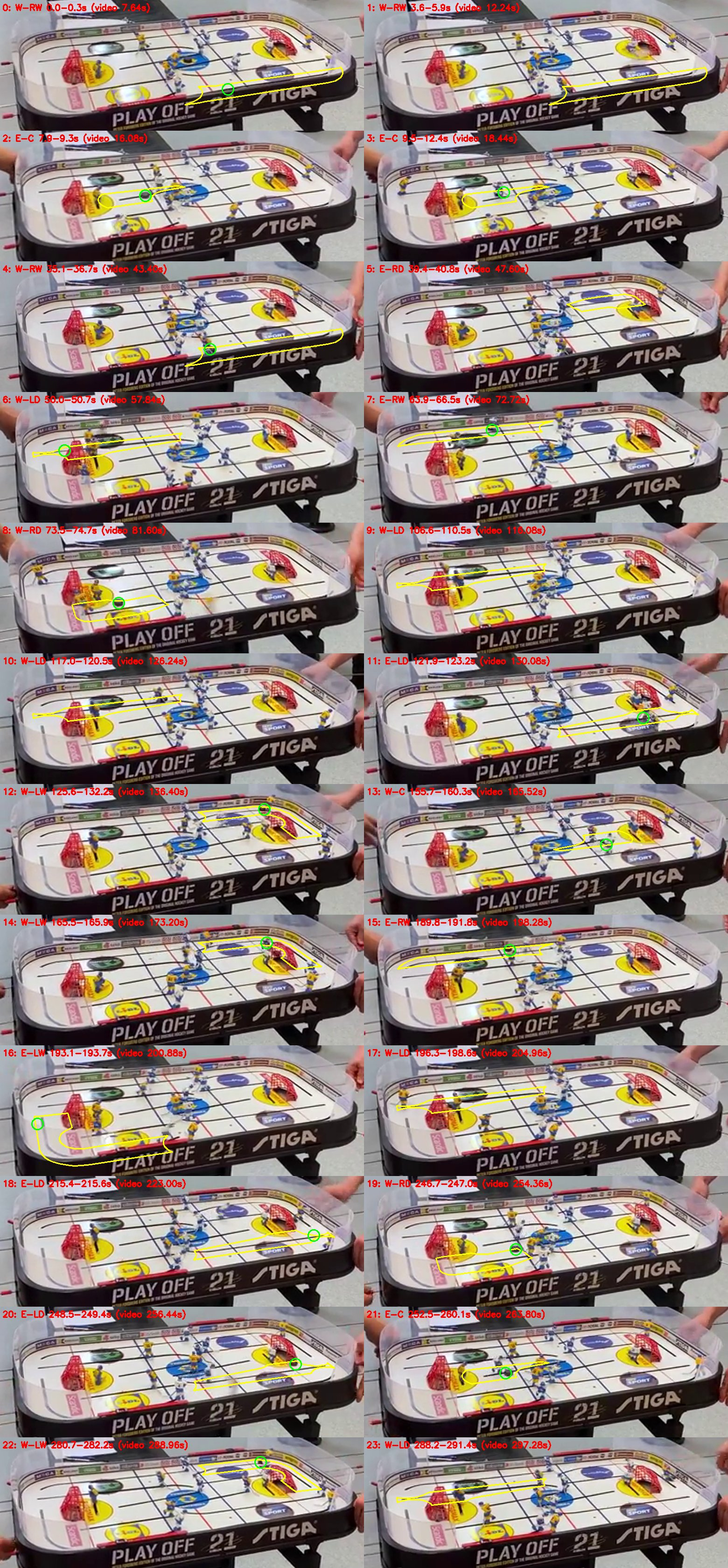
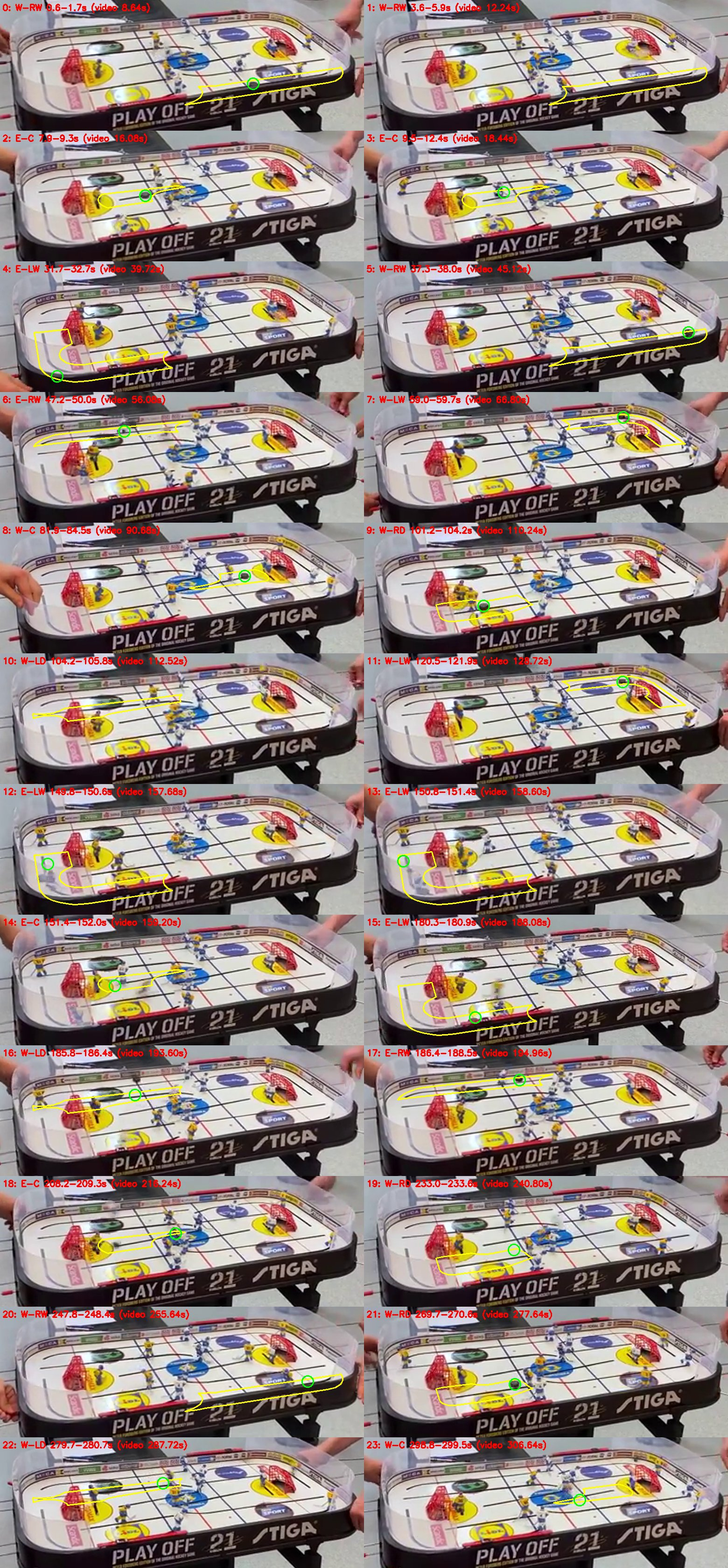
Match tracking: user settings, minimum episode 0.5 s and maximum gap 7 s
Recount and re-review with the user's settings; sensitivity table keeps
the previous defaults for comparison.

Claude-Session: https://claude.ai/code/session_01ELokErAn2XD5oMDfq7JXns

Changed region(s): [[0.0, 0.1562, 1.0, 1.0], [0.0, 0.0, 0.5231, 0.0938], [0.0, 0.4375, 0.0308, 0.5]]

diff --git a/scripts/game-possession.py b/scripts/game-possession.py
@@ -14,10 +14,11 @@ Definition (user answers A10-A15, docs/game-mechanics.md section 6):
   not counted (A14) and do not block (simplest reading of "don't count the goalie").
 - Per skater: the time the puck is on it, and the number of times it gets the puck (entries into its exclusive
   area).
-- Frames where the puck is not seen: a gap of up to MAX_GAP_S keeps the owner when the puck is on the same skater
+- Frames where the puck is not seen: a gap of up to MAX_GAP_S (7 s, user) keeps the owner when the puck is on the same skater
   before and after; otherwise the first half goes to the owner before and the second half to the owner after. A gap
-  longer than MAX_GAP_S is on nobody (A15; whether the whole gap or only the part after 10 s is open, Q16).
-- An episode shorter than MIN_EPISODE_S on a skater is counted as nobody (detection jitter at area edges).
+  longer than MAX_GAP_S is on nobody (A15 said 10 s for a stoppage; the user then chose 7 s for the tracking gaps;
+  whether the whole gap or only the part after the limit is open, Q16).
+- An episode shorter than MIN_EPISODE_S (0.5 s, user) on a skater is counted as nobody (detection jitter at area edges).
 """
 import json
 
@@ -30,7 +31,7 @@ from shapely.prepared import prep
 
 from game_common import FPS, GAME, MATCH_START_S, REPO, geometry, load, match_frames, proj, save, world_to_crop
 
-MAX_GAP_S, MIN_EPISODE_S = 10.0, 0.2
+MAX_GAP_S, MIN_EPISODE_S = 7.0, 0.5  # user, 2026-10-07
 G = geometry()
 R_PUCK = G["puck"]["diameter"]["value"] / 2
 TEAM = {"W": "Fylling (left)", "E": "Moe (right)"}
@@ -156,10 +157,12 @@ def classify_goalie_blocks(x, y):
 
 SENS = {
     "baseline": summary(own),
-    "long gap: nobody only after 10 s (Q16)": summary(assign(POS, gap_rule="after")[0]),
+    "long gap: nobody only after the limit (Q16)": summary(assign(POS, gap_rule="after")[0]),
     "goalies block (puck in a goalie's reach is on nobody)": summary(assign(POS, classify=classify_goalie_blocks)[0]),
-    "minimum episode 0.4 s": summary(assign(POS, min_episode_s=0.4)[0]),
-    "no minimum episode": summary(assign(POS, min_episode_s=0.0)[0]),
+    "previous defaults (max gap 10 s, minimum episode 0.2 s)": summary(assign(POS, max_gap_s=10.0, min_episode_s=0.2)[0]),
+    "minimum episode 0.3 s": summary(assign(POS, min_episode_s=0.3)[0]),
+    "minimum episode 1.0 s": summary(assign(POS, min_episode_s=1.0)[0]),
+    "max gap 10 s": summary(assign(POS, max_gap_s=10.0)[0]),
     "max gap 3 s": summary(assign(POS, max_gap_s=3.0)[0]),
 }
 

diff --git a/docs/game-tracking.md b/docs/game-tracking.md
@@ -19,38 +19,43 @@ Reproduce: `npm run game:track` (about 10 min on the 4-CPU container).
 
 ## Result (5:00 regulation)
 
+Settings chosen by the user (2026-10-07):
+- **minimum episode 0.5 s:** a stay on one skater shorter than 0.5 s counts as nobody;
+- **maximum gap 7 s:** the puck is held through a hidden stretch of up to 7 s, otherwise it is on nobody.
+
 | Skater | Time on the puck | Times | Of which the puck was seen |
 | --- | --- | --- | --- |
-| W-LD | 37.4 s | 18 | 7.6 s |
-| W-RD | 26.1 s | 11 | 13.4 s |
-| W-C | 14.5 s | 8 | 8.0 s |
-| W-LW | 41.0 s | 15 | 21.5 s |
-| W-RW | 14.0 s | 11 | 3.2 s |
-| **Fylling (W, left)** | **133.0 s** | **63** | |
-| E-LD | 19.9 s | 14 | 11.6 s |
-| E-RD | 6.2 s | 5 | 1.4 s |
-| E-C | 14.8 s | 7 | 10.0 s |
-| E-LW | 24.5 s | 16 | 7.0 s |
-| E-RW | 22.6 s | 13 | 15.1 s |
-| **Moe (E, right)** | **88.0 s** | **55** | |
-| Nobody | 79.0 s | | contested 19.0 s, gaps between different skaters or after "nobody" 45.0 s, one gap over 10 s 12.0 s (134.0-147.4 s), short episodes 3.0 s |
+| W-LD | 32.5 s | 15 | 6.8 s |
+| W-RD | 22.2 s | 9 | 13.1 s |
+| W-C | 13.9 s | 6 | 7.7 s |
+| W-LW | 39.9 s | 12 | 21.1 s |
+| W-RW | 13.4 s | 9 | 3.0 s |
+| **Fylling (W, left)** | **121.9 s** | **51** | |
+| E-LD | 17.9 s | 9 | 11.2 s |
+| E-RD | 5.0 s | 2 | 0.8 s |
+| E-C | 14.3 s | 6 | 9.9 s |
+| E-LW | 23.1 s | 12 | 6.6 s |
+| E-RW | 21.5 s | 10 | 14.4 s |
+| **Moe (E, right)** | **81.8 s** | **39** | |
+| Nobody | 96.3 s | | contested 19.0 s, gaps between different skaters or after "nobody" 37.6 s, three gaps over 7 s 26.9 s, stays under 0.5 s 12.8 s |
 
 Team W is the left player (Fylling, A1). Which goal is goal.W is assumed (see Calibration). "Seen" is the time the
 puck was actually detected while on that skater; the rest was carried through gaps where the puck was hidden.
 
-**How much the numbers move** (`possession.json` → `sensitivity`, each choice changed alone):
+**How much the numbers move** (`possession.json` → `sensitivity`, each choice changed alone from the user's settings):
 
 | Variant | Fylling | Moe |
 | --- | --- | --- |
-| Baseline | 133.0 s, 63 | 88.0 s, 55 |
-| Long gap: nobody only after the first 10 s (Q16) | 133.0 s, 63 | 88.0 s, 55 (the only long gap follows "nobody") |
-| Goalies block (puck in a goalie's reach is on nobody) | 122.1 s, 62 | 72.9 s, 48 |
-| Minimum episode 0.4 s instead of 0.2 s | 131.1 s, 56 | 85.9 s, 48 |
-| No minimum episode | 134.6 s, 84 | 89.2 s, 72 |
-| Gaps held only up to 3 s | 102.2 s, 60 | 79.9 s, 55 |
+| Baseline | 121.9 s, 51 | 81.8 s, 39 |
+| Long gap: nobody only after the limit (Q16) | 121.9 s, 51 | 81.8 s, 39 |
+| Goalies block (puck in a goalie's reach is on nobody) | 109.8 s, 47 | 68.0 s, 35 |
+| Previous defaults (max gap 10 s, minimum episode 0.2 s) | 133.0 s, 63 | 88.0 s, 55 |
+| Minimum episode 0.3 s | 124.0 s, 56 | 87.1 s, 52 |
+| Minimum episode 1.0 s | 113.4 s, 39 | 72.1 s, 26 |
+| Max gap 10 s | 129.3 s, 52 | 81.8 s, 39 |
+| Max gap 3 s | 97.2 s, 45 | 73.5 s, 38 |
 
-The **number of times** depends strongly on the minimum episode length (55-84 for Fylling); the time much less. The
-time depends on how gaps are bridged (102-133 s for Fylling). Both are tuning choices, not facts of the match.
+The long-gap rule (Q16) makes no difference in this match: each gap over 7 s follows a "nobody" stretch.
 
 ## How it works
 
@@ -103,10 +108,10 @@ because the chosen slot-end points are hard to place exactly.
   - 65% of the rink is exclusive to one skater, 31% is contested, 4% no skater reaches.
   - Goalies are not counted (A14) and, in the baseline, do not block.
 - **Gaps** (puck not seen):
-  - up to 10 s with the same skater before and after: held;
-  - up to 10 s with different owners: split in the middle;
-  - over 10 s: nobody (A15).
-- **Minimum episode:** a stay on one skater shorter than 0.2 s counts as nobody (edge jitter).
+  - up to 7 s with the same skater before and after: held;
+  - up to 7 s with different owners: split in the middle;
+  - over 7 s: nobody (user, 2026-10-07; A15 had said 10 s for a stoppage).
+- **Minimum episode:** a stay on one skater shorter than 0.5 s counts as nobody (user, 2026-10-07).
 - **Counts:** time on the puck, and the number of entries into the skater's area.
 
 ## Accuracy: what the review found (`review.json`)
@@ -114,19 +119,21 @@ because the chosen slot-end points are hard to place exactly.
 - **Puck, 40 random match frames:**
   - 16 tracked: 10 clearly correct, 6 plausible but not verifiable at the sheet's resolution, none clearly wrong;
   - 24 not seen: in at least one (212.1 s), probably two, the puck was visible.
-- **Possession, 24 random episodes:**
-  - 18 had the puck seen at their middle: 17 consistent, 1 wrong (match 0.0-0.3 s: the puck was still on the centre
-    spot; the track had a false spot on the near side);
-  - 6 were carried through gaps and can't be checked (four of them W-LD).
+- **Possession, 24 random episodes** (with the user's settings):
+  - the puck is seen at the middle of 22;
+  - 8 are clearly consistent and 7 plausible; 5 can't be checked at the sheet's resolution;
+  - 2 are probably wrong: the circle sits on the dark edge of the near board, where the housing hides the ice
+    (E-LW at match 31.7 s and 180.3 s).
 - **Fixed false spots:** the dark rim of the green ice logo next to the left goal (88 → 34 tracked frames), and the
   left goalie's navy trousers.
 
 ## Known weaknesses (most important first)
 
 1. **Gap bridging carries much of the time.** Only 40% of frames see the puck, so 60% of the time is inferred. W-LD
-   has 37 s, of which 7.6 s seen. Its area runs along the far side behind the left goal, where figures and the cage
+   has 32.5 s, of which 6.8 s seen. Its area runs along the far side behind the left goal, where figures and the cage
    hide the puck.
-2. **The minimum episode length decides the number of times** (55-84 for Fylling). It should be set with the user.
+2. **False detections on the near board edge.** The detection area reaches into the strip of ice hidden by the
+   housing. Limiting it to the visible ice would remove them (not done yet).
 3. **Remaining false detections** (about 34 frames at the logo rim, possibly others) and **missed visible pucks**.
    More labels, or a small learned detector on the stabilised crops, would help.
 4. **Stoppages are not detected.** Goals and face-offs (A2: two regulation goals, times unknown, Q11) are counted like
@@ -140,6 +147,7 @@ because the chosen slot-end points are hard to place exactly.
 ## Next steps (not done)
 
 - The user's goal times (Q11), to mark the two stoppages and check them.
-- Agree the minimum episode length and the gap rule (or check them against a few seconds the user counts by hand).
+- Limit puck candidates to the visible ice (the near board edge).
+- Check the counts against a minute the user counts by hand.
 - Label more frames in the weak areas (far side by the left goal), or train a small CNN on the labelled crops.
 - Then a fixed-camera recording, which should raise the seen fraction a lot.

diff --git a/docs/state.md b/docs/state.md
@@ -251,11 +251,11 @@
     - rink-plane calibration to the repo geometry (goal.W at the video's left, assumed from symmetry);
     - puck candidates, a logistic classifier on 1967 hand labels, a Viterbi track (puck seen in 40% of match frames);
     - possession per skater by exclusive reach areas (A10-A15).
-  - Result `validation/game-possession.png`, `data/games/fylling-vs-moe-2022/possession.json`: Fylling 133.0 s / 63
-    times, Moe 88.0 s / 55, nobody 79.0 s.
-    - Sensitivity: Fylling 102-135 s and 55-84 times depending on gap and minimum-episode choices.
-  - Review (`review.json`): 10/16 tracked spot-check frames clearly right, 0 clearly wrong; 17/18 checkable episodes
-    consistent.
+  - User settings (A17, A18): minimum episode 0.5 s, maximum gap 7 s.
+  - Result `validation/game-possession.png`, `data/games/fylling-vs-moe-2022/possession.json`: Fylling
+    121.9 s / 51 times, Moe 81.8 s / 39, nobody 96.3 s.
+  - Review (`review.json`): 10/16 tracked spot-check frames clearly right, 0 clearly wrong; of 22 checkable episodes 8
+    consistent, 7 plausible, 5 not verifiable, 2 probably wrong (false detections on the near board edge).
   - Weaknesses and next steps: `docs/game-tracking.md`. Stoppages (goals, face-offs) are not detected yet.
 - Geometry version: `0.5.0` (`data/geometry.json`). Board boundary, all 12 slots and both goal regions traced in pixels;
   goal setup = without inserts (user). No meshes or movement.

diff --git a/docs/game-mechanics.md b/docs/game-mechanics.md
@@ -305,6 +305,13 @@ Second round (2026-10-07):
   - a stoppage longer than 10 s puts the puck on nobody (A15).
 - **Time base:** the match clock from the audio timer (7.5-307.5 s of video time in this recording).
 
+Third round (2026-10-07, after the first tracking run):
+
+| # | Question | Answer |
+| --- | --- | --- |
+| A17 | Shortest stay on a skater that counts | "0.5 seconds minimum" |
+| A18 | Longest hidden stretch the puck is held through | "I think 7 seconds is better" (instead of 10 s) |
+
 ### Open questions
 
 11. The two regulation goals in video time (the user will check).
